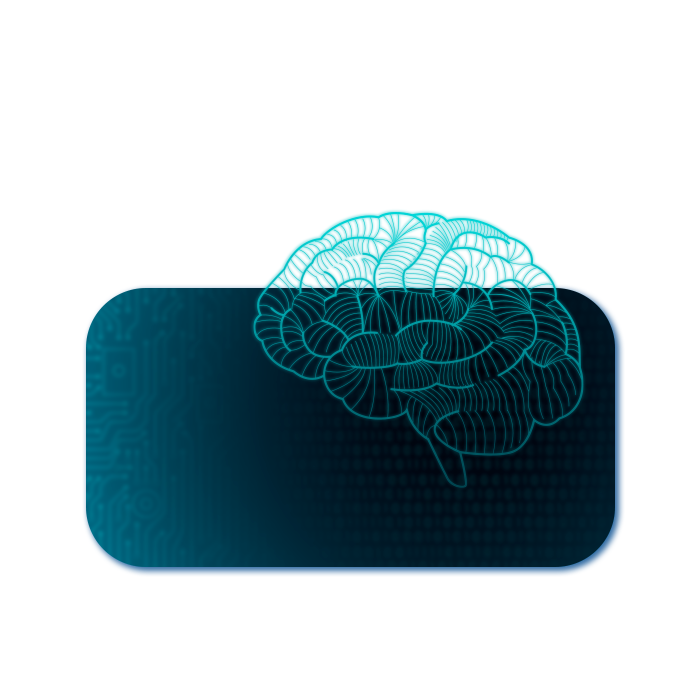
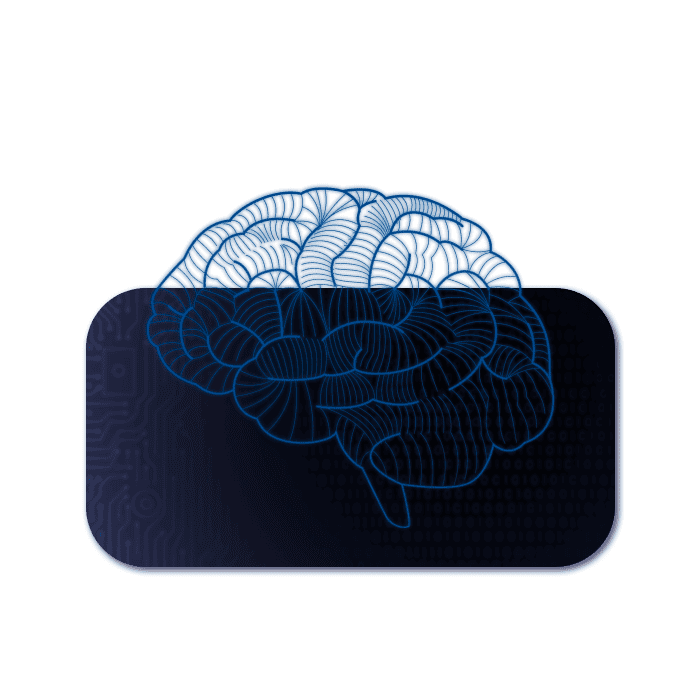
atualizando header e novas fotos

Changed region(s): [[0.12, 0.24, 0.9, 0.84]]

diff --git a/index.html b/index.html
@@ -150,61 +150,61 @@
 
     <section class="secao-servicos zoom-in">
       <div class="container-servicos">
-        <div class="cabecalho-servicos drop-in anim-delay-1">
+        <div class="cabecalho-servicos">
           <h2 class="titulo-servicos">Soluções em desenvolvimento de software</h2>
           <p class="subtitulo-servicos">Tecnologia, integração e automação para o seu negócio</p>
         </div>
-        <div class="lista-cartoes-servicos" data-carrossel-servicos>
-          <article class="cartao-servico fade-in anim-delay-2">
+        <div class="lista-cartoes-servicos drop-in anim-delay-1" data-carrossel-servicos >
+          <article class="cartao-servico">
             <h3 class="titulo-cartao-servico">Portais web conectados ao ERP</h3>
             <p class="texto-cartao-servico">
               Portais seguros e rápidos, conectados ao seu ERP. Acesso em tempo real a pedidos, estoque e
               informações críticas de qualquer lugar.
             </p>
           </article>
-          <article class="cartao-servico fade-in anim-delay-3">
+          <article class="cartao-servico">
             <h3 class="titulo-cartao-servico">Integrações entre sistemas</h3>
             <p class="texto-cartao-servico">
               Integrações entre ERP, CRM, e-commerce e outros sistemas. Uso de APIs, webservices e webhooks para
               garantir dados consistentes e processos sem retrabalho.
             </p>
           </article>
-          <article class="cartao-servico fade-in anim-delay-4">
+          <article class="cartao-servico">
             <h3 class="titulo-cartao-servico">Aplicações sob medida</h3>
             <p class="texto-cartao-servico">
               Sistemas personalizados para as necessidades do seu negócio. Escaláveis, seguros e preparados para
               acompanhar o crescimento da sua empresa.
             </p>
           </article>
-          <article class="cartao-servico fade-in anim-delay-4">
+          <article class="cartao-servico">
             <h3 class="titulo-cartao-servico">Automação de processos</h3>
             <p class="texto-cartao-servico">
               Automação de rotinas manuais e repetitivas. Menos erros, mais produtividade e tempo livre para focar no
               que gera valor.
             </p>
           </article>
-          <article class="cartao-servico fade-in anim-delay-4">
+          <article class="cartao-servico">
             <h3 class="titulo-cartao-servico">Agile Connect e integrações de CRM</h3>
             <p class="texto-cartao-servico">
               Conjunto de APIs que conecta CRMs como Zoho, Agendor e EOX ao FOCCOERP e a outros sistemas. Processos mais
               simples e vendas organizadas.
             </p>
           </article>
-          <article class="cartao-servico fade-in anim-delay-4">
+          <article class="cartao-servico">
             <h3 class="titulo-cartao-servico">Customizações e manutenção no FOCCOERP</h3>
             <p class="texto-cartao-servico">
               Criação e ajustes de customizações, relatórios, etiquetas e rotinas no FOCCOERP. Manutenção feita com
               segurança, respeitando o seu modelo de negócio e as boas práticas do ERP.
             </p>
           </article>
-          <article class="cartao-servico fade-in anim-delay-4">
+          <article class="cartao-servico">
             <h3 class="titulo-cartao-servico">Aplicativos como Agile Check</h3>
             <p class="texto-cartao-servico">
               Aplicativos web e mobile integrados ao ERP, como o Agile Check. Indicadores, registros e decisões na
               palma da mão, com informações atualizadas onde quer que você esteja.
             </p>
           </article>
-          <article class="cartao-servico fade-in anim-delay-4">
+          <article class="cartao-servico">
             <h3 class="titulo-cartao-servico">APIs, webhooks e integrações sob medida</h3>
             <p class="texto-cartao-servico">
               Desenvolvimento de APIs, webhooks e componentes específicos conforme a sua demanda. Conectamos o seu

diff --git a/js/secao-servicos.js b/js/secao-servicos.js
@@ -1,47 +1,42 @@
-// js/secao-servicos.js
-const carrosselServicos=document.querySelector('[data-carrossel-servicos]')
-let arrastando=false
-let inicioX=0
-let scrollInicial=0
+const carrosselServicos = document.querySelector('[data-carrossel-servicos]')
 
-if(carrosselServicos){
-  carrosselServicos.addEventListener('mousedown',e=>{
-    arrastando=true
-    carrosselServicos.classList.add('arrastando')
-    inicioX=e.pageX-carrosselServicos.offsetLeft
-    scrollInicial=carrosselServicos.scrollLeft
-  })
+if (carrosselServicos) {
 
-  window.addEventListener('mouseup',()=>{
-    arrastando=false
-    carrosselServicos.classList.remove('arrastando')
-  })
+  function iniciarCarrossel() {
+    const larguraOriginal = carrosselServicos.scrollWidth
 
-  window.addEventListener('mousemove',e=>{
-    if(!arrastando)return
-    e.preventDefault()
-    const x=e.pageX-carrosselServicos.offsetLeft
-    const deslocamento=x-inicioX
-    carrosselServicos.scrollLeft=scrollInicial-deslocamento
-  })
+    if (larguraOriginal === 0) {
+      setTimeout(iniciarCarrossel, 100)
+      return
+    }
 
-  carrosselServicos.addEventListener('touchstart',e=>{
-    const toque=e.touches[0]
-    arrastando=true
-    inicioX=toque.pageX-carrosselServicos.offsetLeft
-    scrollInicial=carrosselServicos.scrollLeft
-  })
+    carrosselServicos.innerHTML += carrosselServicos.innerHTML
 
-  carrosselServicos.addEventListener('touchend',()=>{
-    arrastando=false
-    carrosselServicos.classList.remove('arrastando')
-  })
+    let limite = carrosselServicos.scrollWidth / 2
+    let pos = 0
+    let pausado = false
+    const velocidade = 0.35
 
-  carrosselServicos.addEventListener('touchmove',e=>{
-    if(!arrastando)return
-    const toque=e.touches[0]
-    const x=toque.pageX-carrosselServicos.offsetLeft
-    const deslocamento=x-inicioX
-    carrosselServicos.scrollLeft=scrollInicial-deslocamento
-  })
+    function animar() {
+      if (!pausado) {
+        pos += velocidade
+        if (pos >= limite) {
+          pos = 0
+        }
+        carrosselServicos.scrollLeft = pos
+      }
+      requestAnimationFrame(animar)
+    }
+
+    carrosselServicos.addEventListener('mouseenter', () => pausado = true)
+    carrosselServicos.addEventListener('mouseleave', () => pausado = false)
+
+    window.addEventListener('resize', () => {
+      limite = carrosselServicos.scrollWidth / 2
+    })
+
+    animar()
+  }
+
+  setTimeout(iniciarCarrossel, 150)
 }

diff --git a/css/secao-servicos.css b/css/secao-servicos.css
@@ -62,16 +62,16 @@
 .lista-cartoes-servicos{
   display:flex;
   gap:24px;
-  overflow-x:auto;
-  overflow-y:hidden;
-  padding-bottom:8px;
+  overflow:hidden;
+  padding-bottom:4px;
+  padding-top: 4px;
   scrollbar-width:none;
-  cursor:grab;
 }
 
 .lista-cartoes-servicos::-webkit-scrollbar{
   display:none;
 }
+
 
 
 .lista-cartoes-servicos.arrastando{

diff --git a/css/base.css b/css/base.css
@@ -6,7 +6,7 @@
   --cor-acento:#1F4B8C;
   --altura-header:147px;
   --largura-logo:111px;
-  --altura-logo:85px;
+  --altura-logo:55px;
   --padding-lateral:70px;
   --largura-maxima:1400px;
 }

diff --git a/css/footer.css b/css/footer.css
@@ -22,7 +22,7 @@
 }
 /* logo (imagem aplicada via background igual às outras) */
 .logo-rodape{
-  width:360px;
+  width:260px;
   height:220px;
   border-radius:24px;
 
